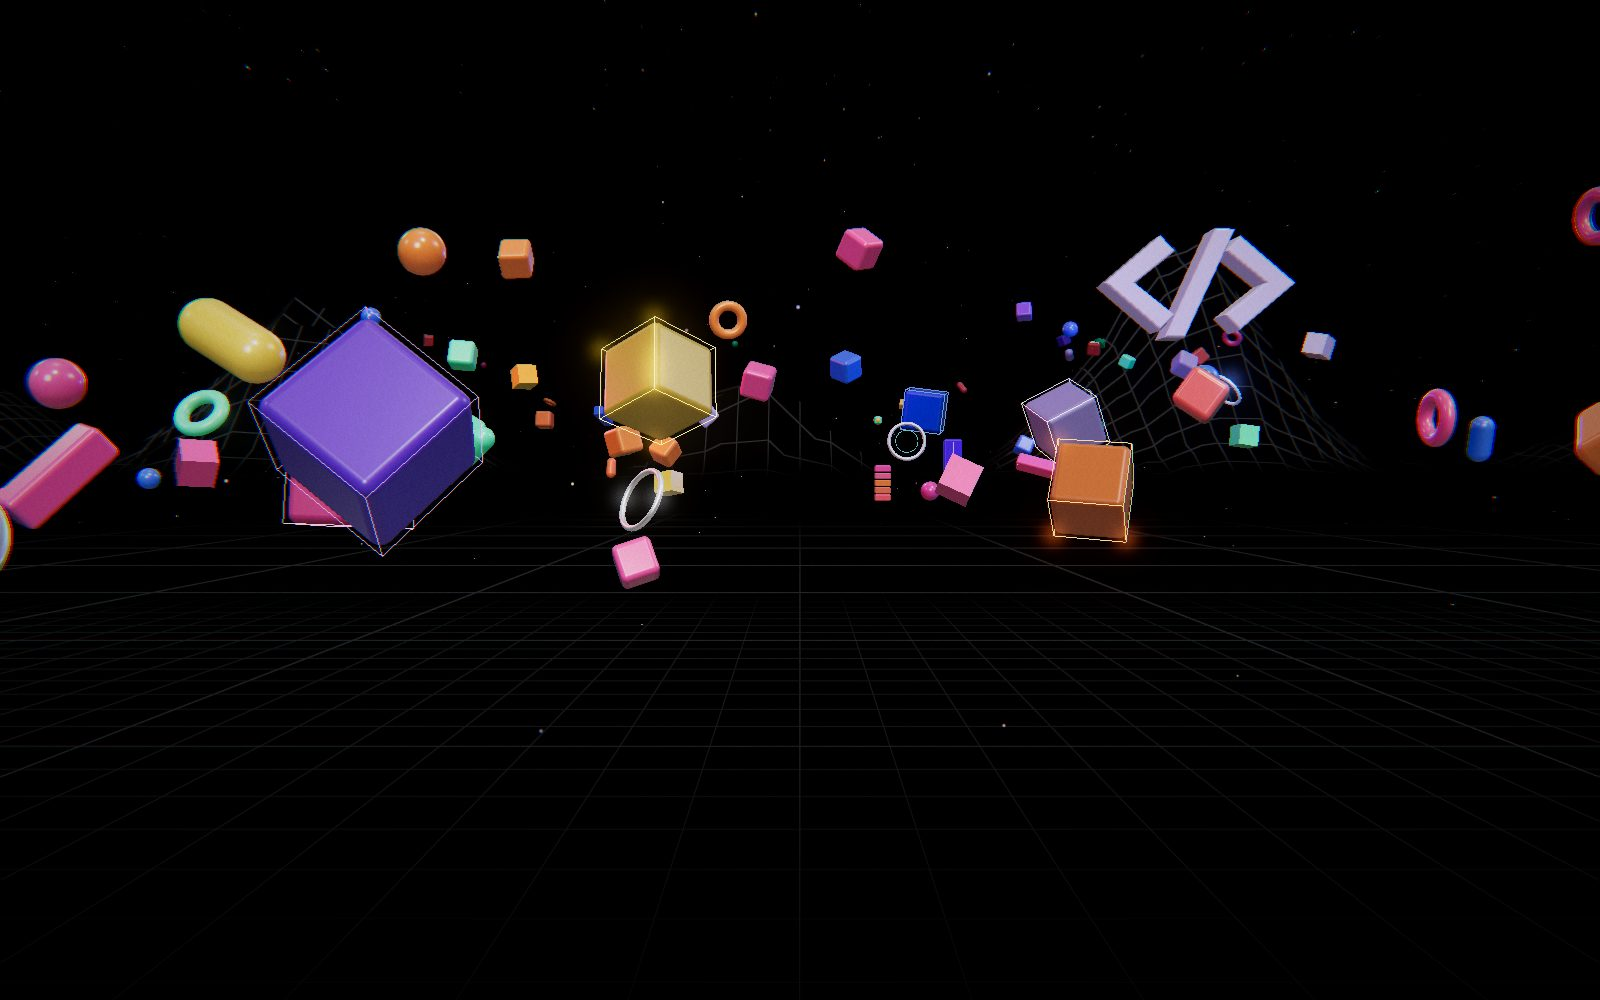
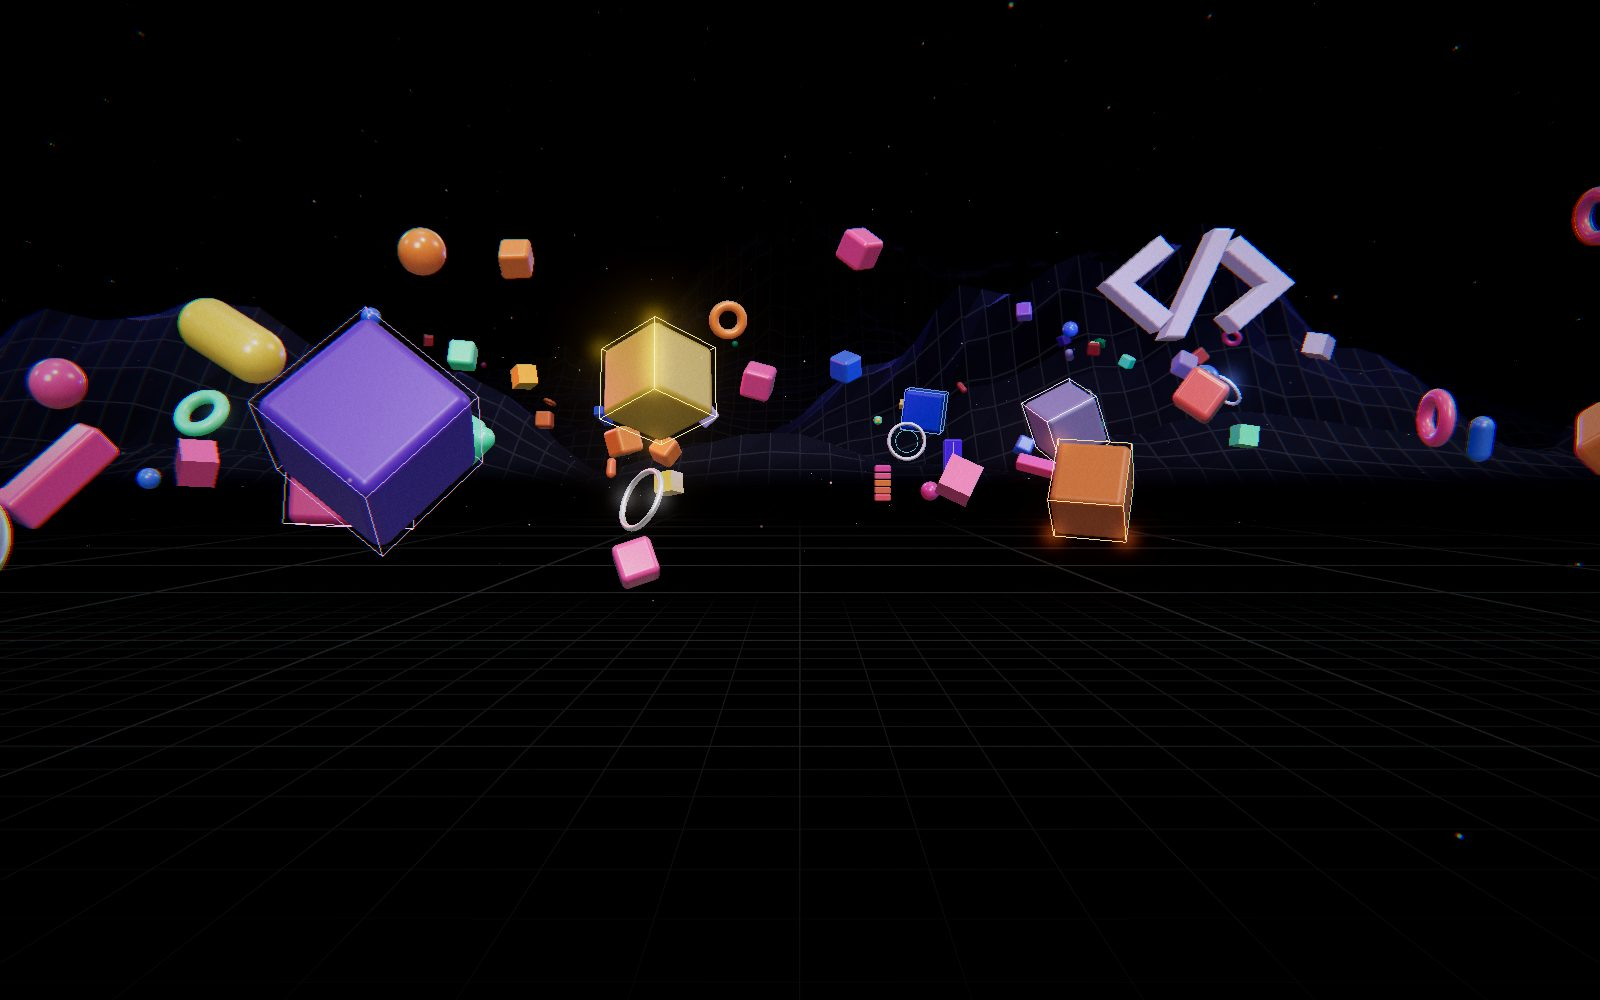
added mountains

diff --git a/src/three/space/mountains.js b/src/three/space/mountains.js
@@ -1,23 +1,33 @@
 import * as THREE from 'three'
 
 /*
- * Wireframe grid mountains on the horizon, made to fit the floor grid.
+ * The mountains: three ranges on the horizon, lit like a night scene, carrying the floor's grid.
  *
- * A low-poly heightfield (angular, faceted peaks, generated in code) sits far behind everything.
- * Its lines are drawn the same way as the floor's, from world position on the same lattice, so the
- * floor's grid appears to drape up and over the peaks. Faces are black, so the mountains read as
- * solid silhouettes; a faint facet shading shows their shape between the lines. Their lower slopes
- * fade into the dark exactly where the floor grid has faded, so they rise out of the darkness
- * rather than standing on a visible edge, and their peaks catch a little more light.
+ *   near  low foothills just past the floating objects
+ *   mid   the main peaks
+ *   far   broad, tall massifs, softened by distance
+ *
+ * Every mountain is built along a crest line (a ridge with a direction, not a cone), warped and
+ * roughened with ridged noise, so silhouettes are natural and nothing repeats. Heights taper to
+ * nothing at every edge (no cliffs where the mesh ends), and the base sits just below the floor,
+ * so the two surfaces never fight for the same depth.
+ *
+ * The shader lights them from behind (a cool rim along the ridges), with a soft fill from the
+ * viewer's side; steep rock is darker than gentle slopes, the highest gentle slopes catch a faint
+ * frost, and the floor's grid is drawn over everything on the same lattice. Farther ranges fade
+ * toward the dark and cool slightly (atmospheric perspective) without lifting the black sky, and a
+ * slow mist drifts at their feet.
  */
 
-const CELL = 8 // facet size, in meters: big flat faces give the angular low-poly look
-const LINE = 4 // grid line spacing: every other line falls on the floor's major lines, so the grids line up
-const FRONT = -118 // where the foothills begin (beyond every floating object and the contact ring)
-const BACK = -270
-const HALF_WIDTH = 330 // wide enough for peaks with real valleys between them
+const CELL = 4 // terrain resolution, in meters
+const LINE = 4 // grid line spacing: every other line falls on the floor's major lines
+const FRONT = -116 // where the foothills begin (beyond every floating object and the contact ring)
+const BACK = -350
+const HALF_WIDTH = 360
+const BASE = -0.8 // flat ground sits just under the floor, so the floor always wins the depth test
+const TALLEST = 74
 
-// Deterministic value noise, so the range is the same on every visit.
+// Deterministic noise, so the range is the same on every visit.
 function hash(x, z) {
   const s = Math.sin(x * 127.1 + z * 311.7) * 43758.5453
   return s - Math.floor(s)
@@ -28,68 +38,167 @@ function noise(x, z) {
   const a = hash(ix, iz), b = hash(ix + 1, iz), c = hash(ix, iz + 1), d = hash(ix + 1, iz + 1)
   return a + (b - a) * ux + (c - a) * uz + (a - b - c + d) * ux * uz
 }
-// Ridged fractal noise: sharp crests, the craggy look of the reference.
-function ridged(x, z) {
+function ridged(x, z, octaves = 5) {
   let sum = 0, amp = 0.5, freq = 1, weight = 1
-  for (let o = 0; o < 5; o++) {
+  for (let o = 0; o < octaves; o++) {
     let n = 1 - Math.abs(noise(x * freq, z * freq) * 2 - 1)
     n *= n * weight
     weight = Math.min(1, n * 2)
     sum += n * amp
-    freq *= 2.1
+    freq *= 2.07
     amp *= 0.5
   }
   return sum
 }
 
-// A few named peaks give the range a composition (big on the right, a middle summit, a far left
-// shoulder); ridged noise makes everything between them craggy.
-const PEAKS = [
-  { x: 62, z: -188, h: 50, r: 30 }, // the big summit, right of center
-  { x: -74, z: -166, h: 36, r: 24 }, // left
-  { x: -6, z: -146, h: 19, r: 14 }, // a small one near the middle, in front
-  { x: 150, z: -150, h: 22, r: 18 }, // nearer, right
-  { x: -175, z: -215, h: 44, r: 34 }, // far left, set back
-  { x: 190, z: -230, h: 40, r: 32 }, // far right, set back
-  { x: -270, z: -180, h: 30, r: 26 }, // the edges, for when the camera travels in
-  { x: 280, z: -198, h: 32, r: 28 },
+/*
+ * Each mountain is a crest from (x1, z1) to (x2, z2), with a peak height and a half-width. The
+ * crest is highest a little off-center, and falls away steeply to either side. Laid out by hand
+ * for the camera: the big summit right of center, a counterweight on the left, valleys between.
+ */
+const RIDGES = [
+  // near: low foothills, long and close
+  { x1: -175, z1: -134, x2: -70, z2: -129, h: 13, w: 22 },
+  { x1: 30, z1: -131, x2: 135, z2: -138, h: 11, w: 20 },
+  { x1: -30, z1: -140, x2: 12, z2: -137, h: 8, w: 15 },
+  { x1: 175, z1: -142, x2: 250, z2: -135, h: 14, w: 22 },
+  { x1: -300, z1: -140, x2: -215, z2: -148, h: 12, w: 22 },
+  // mid: the main peaks
+  { x1: 18, z1: -196, x2: 92, z2: -182, h: 62, w: 34 },
+  { x1: -122, z1: -168, x2: -54, z2: -176, h: 46, w: 27 },
+  { x1: 128, z1: -164, x2: 178, z2: -152, h: 27, w: 22 },
+  { x1: -246, z1: -188, x2: -172, z2: -208, h: 36, w: 30 },
+  { x1: 218, z1: -206, x2: 296, z2: -190, h: 38, w: 30 },
+  // far: broad massifs, set well back
+  { x1: -340, z1: -296, x2: -128, z2: -306, h: 58, w: 62 },
+  { x1: -70, z1: -318, x2: 150, z2: -300, h: TALLEST, w: 72 },
+  { x1: 176, z1: -290, x2: 340, z2: -304, h: 54, w: 60 },
 ]
 
+function ridgeHeight(x, z, r) {
+  const dx = r.x2 - r.x1, dz = r.z2 - r.z1
+  const len2 = dx * dx + dz * dz
+  const t = Math.max(0, Math.min(1, ((x - r.x1) * dx + (z - r.z1) * dz) / len2)) // position along the crest
+  const cx = r.x1 + dx * t, cz = r.z1 + dz * t
+  const d = Math.hypot(x - cx, z - cz) / r.w // distance from the crest, in half-widths
+  // Tallest ~40% along the crest, sagging toward the ends; past the ends it rounds off.
+  const along = 0.55 + 0.45 * Math.sin(Math.PI * Math.min(1, t * 1.25))
+  return r.h * along * Math.pow(Math.max(0, 1 - d), 1.3)
+}
+
 function heightAt(x, z) {
-  const foothills = THREE.MathUtils.smoothstep(-z, -FRONT, -FRONT + 26) // flat where the range begins, full height 26m behind
-  // Cone-like peaks (pointed summits, straight steep slopes), not rounded bells.
-  let peaks = 0
-  for (const p of PEAKS) {
-    const d = Math.hypot(x - p.x, z - p.z) / (p.r * 1.25)
-    peaks = Math.max(peaks, p.h * Math.pow(Math.max(0, 1 - d), 1.35))
-  }
-  const range = 2 + 6 * noise(x * 0.012 + 3.1, z * 0.012) // low ground between the peaks: real valleys
-  const crag = ridged(x * 0.022, z * 0.022)
-  return foothills * (peaks * (0.7 + 0.45 * crag) + range * crag)
+  // Warp the coordinates gently, so crests bend and nothing looks ruled.
+  const wx = x + (noise(x * 0.008, z * 0.008) - 0.5) * 36
+  const wz = z + (noise(x * 0.008 + 7.3, z * 0.008 + 2.1) - 0.5) * 22
+  let h = 0
+  for (const r of RIDGES) h = Math.max(h, ridgeHeight(wx, wz, r))
+  // Ridged detail scaled by height: crags and gullies on the big peaks, gentle texture low down,
+  // plus a finer, sharper layer that breaks up the summits into jagged silhouettes.
+  const crag = ridged(x * 0.021, z * 0.021)
+  const jag = ridged(x * 0.055 + 11, z * 0.055 - 4, 3)
+  h = h * (0.62 + 0.55 * crag) + h * 0.16 * (jag - 0.3) + 2.5 * crag * noise(x * 0.03, z * 0.03)
+  h = Math.max(0, h)
+  // Taper to nothing at every edge of the mesh: no cliffs where the terrain ends.
+  const edge =
+    THREE.MathUtils.smoothstep(-z, -FRONT, -FRONT + 14) *
+    THREE.MathUtils.smoothstep(z, BACK, BACK + 40) *
+    THREE.MathUtils.smoothstep(HALF_WIDTH - Math.abs(x), 0, 50)
+  return BASE + h * edge
 }
 
 export function createMountains({ compact = false } = {}) {
   const cols = Math.round((HALF_WIDTH * 2) / CELL), rows = Math.round((FRONT - BACK) / CELL)
-  const geo = new THREE.PlaneGeometry(HALF_WIDTH * 2, FRONT - BACK, cols, rows)
-  geo.rotateX(-Math.PI / 2)
-  geo.translate(0, 0, (FRONT + BACK) / 2)
+  const grid = new THREE.PlaneGeometry(HALF_WIDTH * 2, FRONT - BACK, cols, rows)
+  grid.rotateX(-Math.PI / 2)
+  grid.translate(0, 0, (FRONT + BACK) / 2)
+  const p = grid.attributes.position
+  for (let i = 0; i < p.count; i++) p.setY(i, heightAt(p.getX(i), p.getZ(i)))
+  // One normal per face (non-indexed): crisp facets, and no shading glitches along triangle edges.
+  const geo = grid.toNonIndexed()
+  grid.dispose()
+  geo.computeVertexNormals()
+  // A per-face tone, so the rock varies without any texture to tile.
   const pos = geo.attributes.position
-  for (let i = 0; i < pos.count; i++) pos.setY(i, heightAt(pos.getX(i), pos.getZ(i)))
+  const tone = new Float32Array(pos.count)
+  for (let i = 0; i < pos.count; i += 3) {
+    const v = noise(pos.getX(i) * 0.05, pos.getZ(i) * 0.05) * 0.7 + hash(pos.getX(i), pos.getZ(i)) * 0.3
+    tone[i] = tone[i + 1] = tone[i + 2] = v
+  }
+  geo.setAttribute('aTone', new THREE.BufferAttribute(tone, 1))
   geo.computeBoundingSphere()
 
   const material = new THREE.ShaderMaterial({
     uniforms: {
       uCamera: { value: new THREE.Vector3() },
+      uTime: { value: 0 },
       uReveal: { value: 1000 },
-      uLine: { value: new THREE.Color('#3c3c40') }, // the floor's own line gray
-      uPeak: { value: new THREE.Color('#4a4a52') }, // the peaks a shade lighter
-      uFar: { value: compact ? 300 : 360 },
+      uFar: { value: compact ? 380 : 440 },
+      uTallest: { value: TALLEST },
+      uRock: { value: new THREE.Color('#2a2929') }, // steep faces: nearly black, a breath of blue
+      uSlate: { value: new THREE.Color('#1f2131') }, // gentler slopes: dark slate
+      uFrost: { value: new THREE.Color('#636365') }, // the highest gentle slopes
+      uRim: { value: new THREE.Color('#ffffff') }, // backlight on the ridges: the site's violet, dimmed
+      uLine: { value: new THREE.Color('#2f2f36') }, // the floor's line gray
+      uMist: { value: new THREE.Color('#020202') },
+      uHaze: { value: new THREE.Color('#393939') }, // what distance fades toward: almost black
     },
+    // Performance: faces are flat, so their lighting is constant across each face, and the mist
+    // varies over tens of meters. All of that is computed once per vertex; only the grid lines (and
+    // the opening's reveal) need work per pixel.
     vertexShader: /* glsl */ `
+      attribute float aTone;
+      uniform vec3 uCamera;
+      uniform float uTime, uFar, uTallest;
+      uniform vec3 uRock, uSlate, uFrost, uRim, uMist, uHaze;
       varying vec3 vWorld;
+      varying vec3 vBase;   // everything but the grid lines
+      varying float vLine;  // how much light the grid lines catch here
+      varying float vFade;  // rise from the dark, depth, and distance fades, combined
+
+      float hash(vec2 p) { return fract(sin(dot(p, vec2(127.1, 311.7))) * 43758.5453); }
+      float noise(vec2 p) {
+        vec2 i = floor(p), f = fract(p); f = f * f * (3.0 - 2.0 * f);
+        return mix(mix(hash(i), hash(i + vec2(1, 0)), f.x), mix(hash(i + vec2(0, 1)), hash(i + vec2(1, 1)), f.x), f.y);
+      }
+
       void main() {
         vec4 world = modelMatrix * vec4(position, 1.0);
         vWorld = world.xyz;
+        vec3 n = normalize(mat3(modelMatrix) * normal);
+        if (n.y < 0.0) n = -n;
+        vec3 toEye = normalize(uCamera - world.xyz);
+        float d = length(world.xz - uCamera.xz);
+        float h = world.y;
+        float height = clamp(h / uTallest, 0.0, 1.0);
+        float farness = smoothstep(140.0, 300.0, -world.z); // 0 near foothills, ~0.5 main peaks, 1 far massifs
+
+        // Light: a cool backlight from beyond the range (rims the ridges), a soft fill from our side.
+        vec3 back = normalize(vec3(-0.3, 0.55, -0.78));
+        vec3 fill = normalize(vec3(0.45, 0.6, 0.66));
+        float lit = max(dot(n, fill), 0.0);
+        float edge = 1.0 - max(dot(n, toEye), 0.0);
+        // A broad falloff, so whole ridges catch the backlight; its peak stays under the glow threshold.
+        float rim = pow(edge, 2.0) * (0.25 + max(dot(n, back), 0.0)) * smoothstep(0.06, 0.45, height) * (1.25 - farness);
+
+        // Surface: steep rock darker than gentle slopes; faint frost on the highest gentle ground.
+        float steep = 1.0 - n.y;
+        vec3 surface = mix(uSlate, uRock, smoothstep(0.25, 0.75, steep)) * (0.8 + 0.4 * aTone);
+        float frost = smoothstep(0.62, 0.9, n.y) * smoothstep(0.4, 0.75, height);
+        vec3 col = surface * (0.3 + 0.7 * lit) + uFrost * frost * lit + uRim * rim;
+
+        // Mist drifting slowly at the feet of the ranges.
+        vec2 drift = vec2(uTime * 0.6, uTime * 0.25);
+        float m = noise(world.xz * 0.025 + drift * 0.025) * 0.6 + noise(world.xz * 0.06 - drift * 0.04) * 0.4;
+        col += uMist * exp(-max(h, 0.0) / 9.0) * (0.35 + 0.65 * m);
+
+        // Depth, like a painted backdrop: each range steps down in contrast and cools toward the dark,
+        // wherever the camera is; distance adds to it as the camera approaches or recedes.
+        float dim = mix(1.0, 0.34, farness);
+        float air = max(smoothstep(140.0, uFar, d), farness * 0.55) * 0.85;
+        vBase = mix(col * dim, uHaze * (0.5 + height), air);
+        // Lines catch the rim light too, so they trace the ridges like light on the edges of a frame.
+        vLine = (0.55 + 0.45 * lit + rim * 1.4) * smoothstep(0.0, 3.0, h) * dim * (1.0 - air);
+        vFade = smoothstep(-0.8, 5.0, h) * (1.0 - smoothstep(uFar * 0.85, uFar * 1.05, d));
         gl_Position = projectionMatrix * viewMatrix * world;
       }
     `,
@@ -97,36 +206,24 @@ export function createMountains({ compact = false } = {}) {
       uniform vec3 uCamera;
       uniform float uReveal;
       uniform vec3 uLine;
-      uniform vec3 uPeak;
-      uniform float uFar;
       varying vec3 vWorld;
+      varying vec3 vBase;
+      varying float vLine;
+      varying float vFade;
 
-      // Same line drawing as the floor: one crisp pixel, fading before lines crowd together.
+      // The floor's line drawing: one crisp pixel, fading before lines crowd together.
       float gridLine(vec2 p, float spacing) {
         vec2 cell = p / spacing;
         vec2 px = max(fwidth(cell), vec2(1e-4));
         float crowd = max(px.x, px.y);
         vec2 dist = abs(fract(cell - 0.5) - 0.5) / px;
-        float l = 1.0 - clamp(min(dist.x, dist.y), 0.0, 1.0);
-        return l * (1.0 - smoothstep(0.12, 0.45, crowd));
+        return (1.0 - clamp(min(dist.x, dist.y), 0.0, 1.0)) * (1.0 - smoothstep(0.12, 0.45, crowd));
       }
 
       void main() {
+        vec3 col = vBase + uLine * gridLine(vWorld.xz, ${LINE.toFixed(1)}) * vLine;
+        col *= vFade;
         float d = length(vWorld.xz - uCamera.xz);
-        float h = vWorld.y;
-        float line = gridLine(vWorld.xz, ${LINE.toFixed(1)});
-
-        float rise = smoothstep(0.5, 7.0, h);                  // out of the dark, where the floor has faded
-        float far = 1.0 - smoothstep(uFar * 0.6, uFar, d);      // and into it again at the very back
-        vec3 lineColor = mix(uLine, uPeak, smoothstep(12.0, 44.0, h));
-
-        // Faceted shading from the surface itself, so the low-poly shapes read between the lines.
-        vec3 n = normalize(cross(dFdx(vWorld), dFdy(vWorld)));
-        if (n.y < 0.0) n = -n;
-        float facet = max(dot(n, normalize(vec3(-0.45, 0.75, 0.5))), 0.0);
-
-        vec3 col = lineColor * line + vec3(0.004, 0.004, 0.005) * (0.2 + facet); // faces nearly black, like the floor: a hint of shape
-        col *= rise * far;
         col *= smoothstep(uReveal, uReveal - 14.0, d); // the opening lights them last
         gl_FragColor = vec4(col, 1.0);
       }
@@ -137,9 +234,10 @@ export function createMountains({ compact = false } = {}) {
   mesh.frustumCulled = false
   return {
     mesh,
-    update(camera, { reveal = 1000 } = {}) {
+    update(camera, { reveal = 1000, time = 0 } = {}) {
       material.uniforms.uCamera.value.copy(camera.position)
       material.uniforms.uReveal.value = reveal
+      material.uniforms.uTime.value = time
     },
   }
 }

diff --git a/src/three/space/objects.js b/src/three/space/objects.js
@@ -114,7 +114,7 @@ export function createObjects({ compact }) {
     : [[-6.5, 3.6, -5], [6.2, 2.6, -12], [-4.2, 5.6, -22], [9, 4.6, -27], [-11, 2.8, -16], [7.5, 6.5, -58]]
   heroSpots.forEach(([x, y, z], i) => {
     const c = PALETTE[(i * 3 + 1) % PALETTE.length]
-    const mat = glossy({ color: new THREE.Color(c).multiplyScalar(0.55), roughness: 0.35, clearcoat: 0.6, emissive: new THREE.Color(c), emissiveIntensity: 0 })
+    const mat = glossy({ color: new THREE.Color(c).multiplyScalar(0.55), roughness: 0.35, clearcoat: 0.6, clearcoatRoughness: 0.5, emissive: new THREE.Color(c), emissiveIntensity: 0 })
     const mesh = new THREE.Mesh(heroGeo, mat)
     mesh.add(new THREE.LineSegments(heroEdges, new THREE.LineBasicMaterial({ color: new THREE.Color(c).multiplyScalar(3.2), toneMapped: false })))
     group.add(mesh)

diff --git a/src/three/space/SpaceApp.js b/src/three/space/SpaceApp.js
@@ -260,7 +260,7 @@ export async function createSpaceApp(container, options) {
     objects.update(t, dt, { ray, intro: opening, finale: weights[4], still })
     gallery.update(t, dt, { intro: opening, still })
     svgObject.update(t, dt, { intro: opening, still })
-    mountains.update(camera, { reveal: 8 + opening * opening * 420 })
+    mountains.update(camera, { reveal: 8 + opening * opening * 420, time: t }) // t is frozen with reduced motion: still mist
     grid.update(camera, {
       reveal: 8 + opening * opening * 420,
       cursor: cursorOnFloor,
